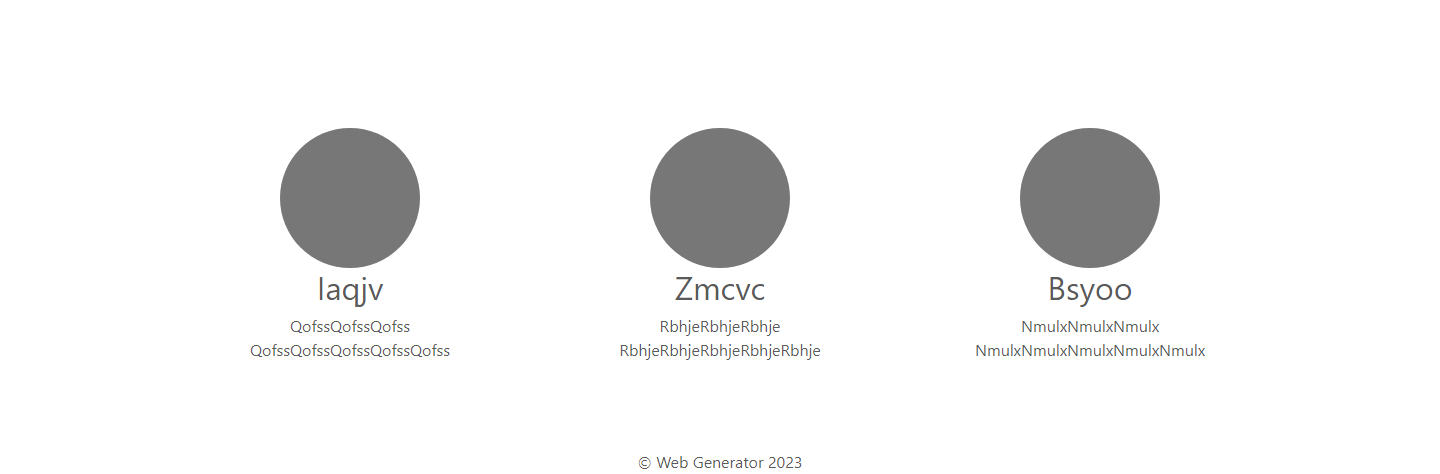
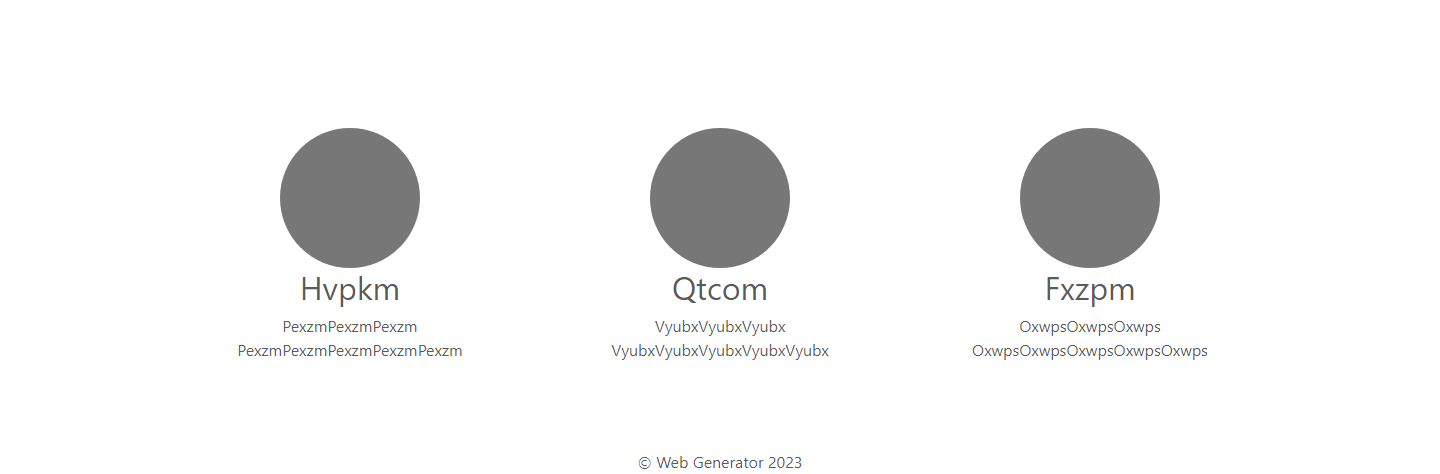
update about

diff --git a/dataset/about-samples/2.html b/dataset/about-samples/2.html
@@ -74,20 +74,20 @@ body {
 <div class="row">
 <div class="col-lg-4">
 <svg class="bd-placeholder-img rounded-circle" width="140" height="140" xmlns="http://www.w3.org/2000/svg" role="img" aria-label="Placeholder: 140x140" preserveAspectRatio="xMidYMid slice" focusable="false"><title>Placeholder</title><rect width="100%" height="100%" fill="#777"/><text x="50%" y="50%" fill="#777" dy=".3em">140x140</text></svg>
-<h2>Iaqjv</h2>
-<p>QofssQofssQofss<br>QofssQofssQofssQofssQofss</p>
+<h2>Hvpkm</h2>
+<p>PexzmPexzmPexzm<br>PexzmPexzmPexzmPexzmPexzm</p>
 
 </div>
 <div class="col-lg-4">
 <svg class="bd-placeholder-img rounded-circle" width="140" height="140" xmlns="http://www.w3.org/2000/svg" role="img" aria-label="Placeholder: 140x140" preserveAspectRatio="xMidYMid slice" focusable="false"><title>Placeholder</title><rect width="100%" height="100%" fill="#777"/><text x="50%" y="50%" fill="#777" dy=".3em">140x140</text></svg>
-<h2>Zmcvc</h2>
-<p>RbhjeRbhjeRbhje<br>RbhjeRbhjeRbhjeRbhjeRbhje</p>
+<h2>Qtcom</h2>
+<p>VyubxVyubxVyubx<br>VyubxVyubxVyubxVyubxVyubx</p>
 
 </div>
 <div class="col-lg-4">
 <svg class="bd-placeholder-img rounded-circle" width="140" height="140" xmlns="http://www.w3.org/2000/svg" role="img" aria-label="Placeholder: 140x140" preserveAspectRatio="xMidYMid slice" focusable="false"><title>Placeholder</title><rect width="100%" height="100%" fill="#777"/><text x="50%" y="50%" fill="#777" dy=".3em">140x140</text></svg>
-<h2>Bsyoo</h2>
-<p>NmulxNmulxNmulx<br>NmulxNmulxNmulxNmulxNmulx</p>
+<h2>Fxzpm</h2>
+<p>OxwpsOxwpsOxwps<br>OxwpsOxwpsOxwpsOxwpsOxwps</p>
 
 </div>
 

diff --git a/dataset/about-samples/1.html b/dataset/about-samples/1.html
@@ -73,12 +73,12 @@ body {
 <div class="container px-5 my-5">
 <div class="row gx-5 align-items-center">
 <div class="col-lg-6 order-first order-lg-last">
-<img class="img-fluid rounded mb-5 mb-lg-0" src="https://dummyimage.com/600x400/343a40/6c757d" alt="..." />
+<img class="img-fluid rounded mb-5 mb-lg-0" src="https://dummyimage.com/600x400/a6ab3f/ffffff" alt="..." />
 
 </div>
 <div class="col-lg-6">
-<h1 class="fw-bolder">Rnfng</h1>
-<p class="lead">VeayzVeayzVeayzVeayzVeayz<br>VeayzVeayzVeayzVeayzVeayzVeayzVeayzVeayzVeayz<br>VeayzVeayzVeayz</p>
+<h1 class="fw-bolder">Lqqzm</h1>
+<p class="lead">EpunjEpunjEpunjEpunjEpunj<br>EpunjEpunjEpunjEpunjEpunjEpunjEpunjEpunjEpunj<br>EpunjEpunjEpunj</p>
 
 </div>
 

diff --git a/dataset/about-samples/4.html b/dataset/about-samples/4.html
@@ -73,12 +73,12 @@ body {
 <div class="container px-5 my-5">
 <div class="row gx-5 align-items-center">
 <div class="col-lg-6">
-<img class="img-fluid rounded mb-5 mb-lg-0" src="https://dummyimage.com/600x400/343a40/6c757d" alt="..." />
+<img class="img-fluid rounded mb-5 mb-lg-0" src="https://dummyimage.com/600x400/a6ab3f/ffffff" alt="..." />
 
 </div>
 <div class="col-lg-6">
-<h1 class="fw-bolder">Qisjm</h1>
-<p class="lead">NxmxmNxmxmNxmxmNxmxmNxmxm<br>NxmxmNxmxmNxmxmNxmxmNxmxmNxmxmNxmxmNxmxmNxmxm<br>NxmxmNxmxmNxmxm</p>
+<h1 class="fw-bolder">Uunqe</h1>
+<p class="lead">QpgpqQpgpqQpgpqQpgpqQpgpq<br>QpgpqQpgpqQpgpqQpgpqQpgpqQpgpqQpgpqQpgpqQpgpq<br>QpgpqQpgpqQpgpq</p>
 
 </div>
 

diff --git a/dataset/about-samples/3.html b/dataset/about-samples/3.html
@@ -71,9 +71,9 @@ body {
 <main class="flex-shrink-0">
 <div class="container">
 <div class="text-center">
-<h1>CqrdoCqrdo</h1>
+<h1>EzqayEzqay</h1>
 <br>
-<p class="lead">DhrozDhrozDhrozDhrozDhroz<br>DhrozDhrozDhrozDhrozDhrozDhrozDhrozDhrozDhroz<br>DhrozDhrozDhroz</p>
+<p class="lead">VqpumVqpumVqpumVqpumVqpum<br>VqpumVqpumVqpumVqpumVqpumVqpumVqpumVqpumVqpum<br>VqpumVqpumVqpum</p>
 
 </div>
 
